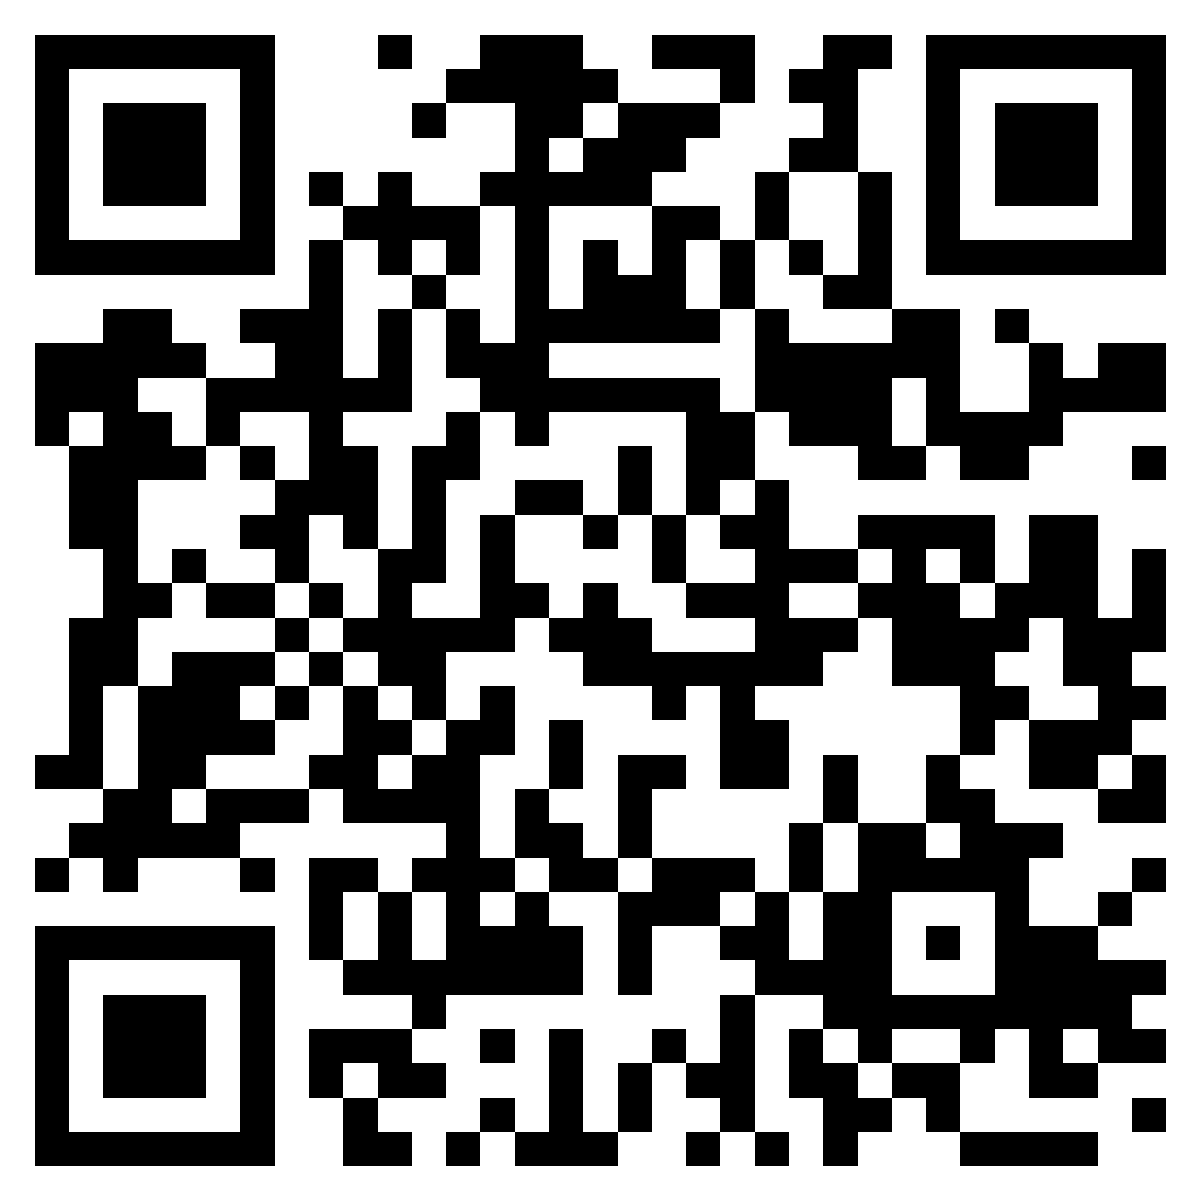
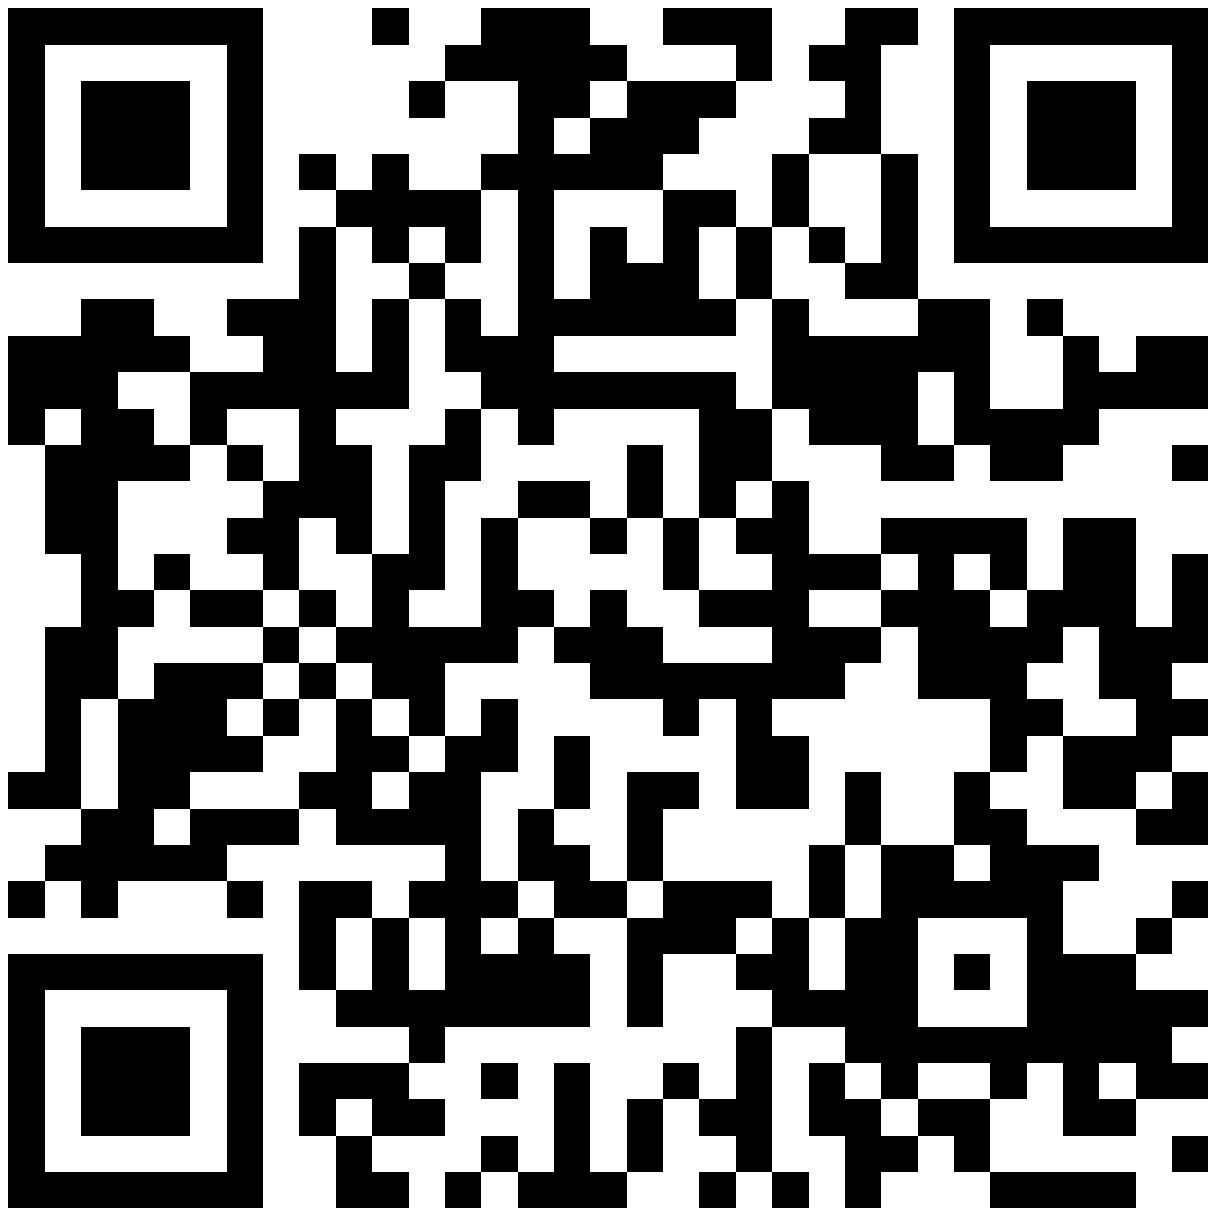
Trim QR code canvas margin

diff --git a/scripts/trim_qrcode_margin.py b/scripts/trim_qrcode_margin.py
@@ -1,0 +1,40 @@
+#!/usr/bin/env python3
+from pathlib import Path
+from sys import argv
+
+from PIL import Image, ImageChops
+
+
+def main():
+    if len(argv) not in (3, 4):
+        raise SystemExit("Usage: python scripts/trim_qrcode_margin.py <input.png> <output.png> [padding_px]")
+
+    input_path = Path(argv[1])
+    output_path = Path(argv[2])
+    padding = int(argv[3]) if len(argv) == 4 else 8
+
+    image = Image.open(input_path).convert("RGBA")
+    rgb = image.convert("RGB")
+    white = Image.new("RGB", rgb.size, (255, 255, 255))
+    bbox = ImageChops.difference(rgb, white).getbbox()
+    if not bbox:
+      image.save(output_path)
+      return
+
+    left, top, right, bottom = bbox
+    left = max(left - padding, 0)
+    top = max(top - padding, 0)
+    right = min(right + padding, image.width)
+    bottom = min(bottom + padding, image.height)
+
+    cropped = image.crop((left, top, right, bottom))
+    if padding > 0:
+        canvas = Image.new("RGBA", (cropped.width + padding * 2, cropped.height + padding * 2), (255, 255, 255, 255))
+        canvas.alpha_composite(cropped, (padding, padding))
+        cropped = canvas
+    output_path.parent.mkdir(parents=True, exist_ok=True)
+    cropped.save(output_path)
+
+
+if __name__ == "__main__":
+    main()
